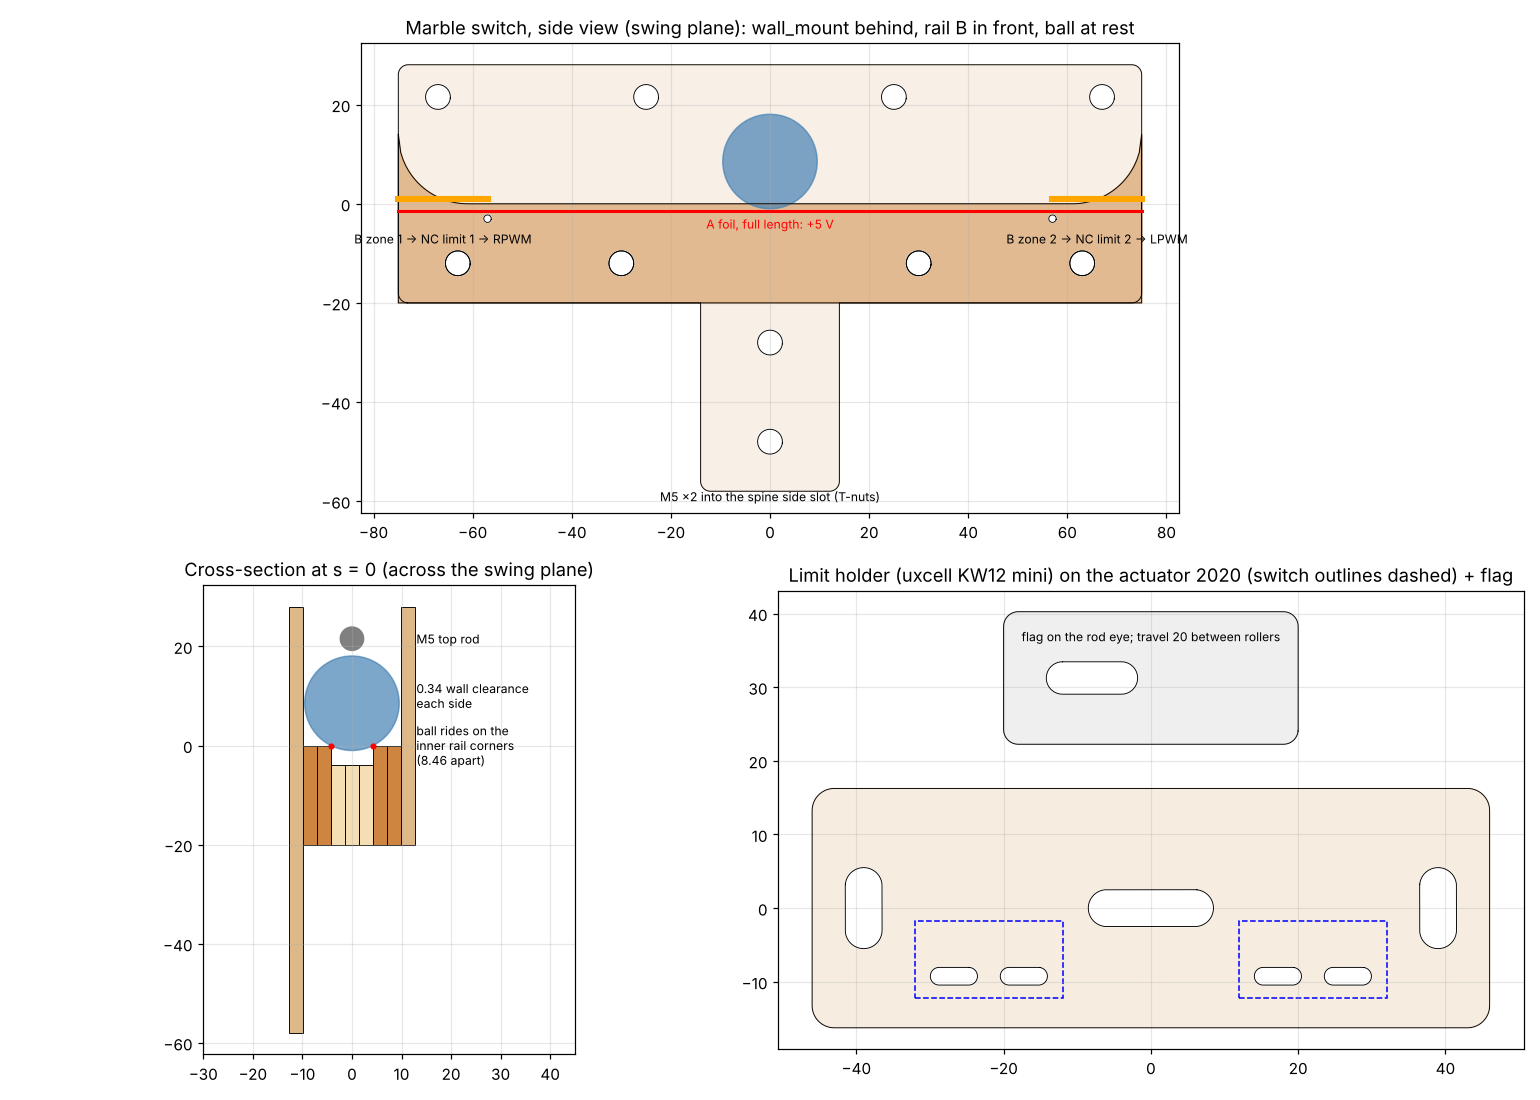
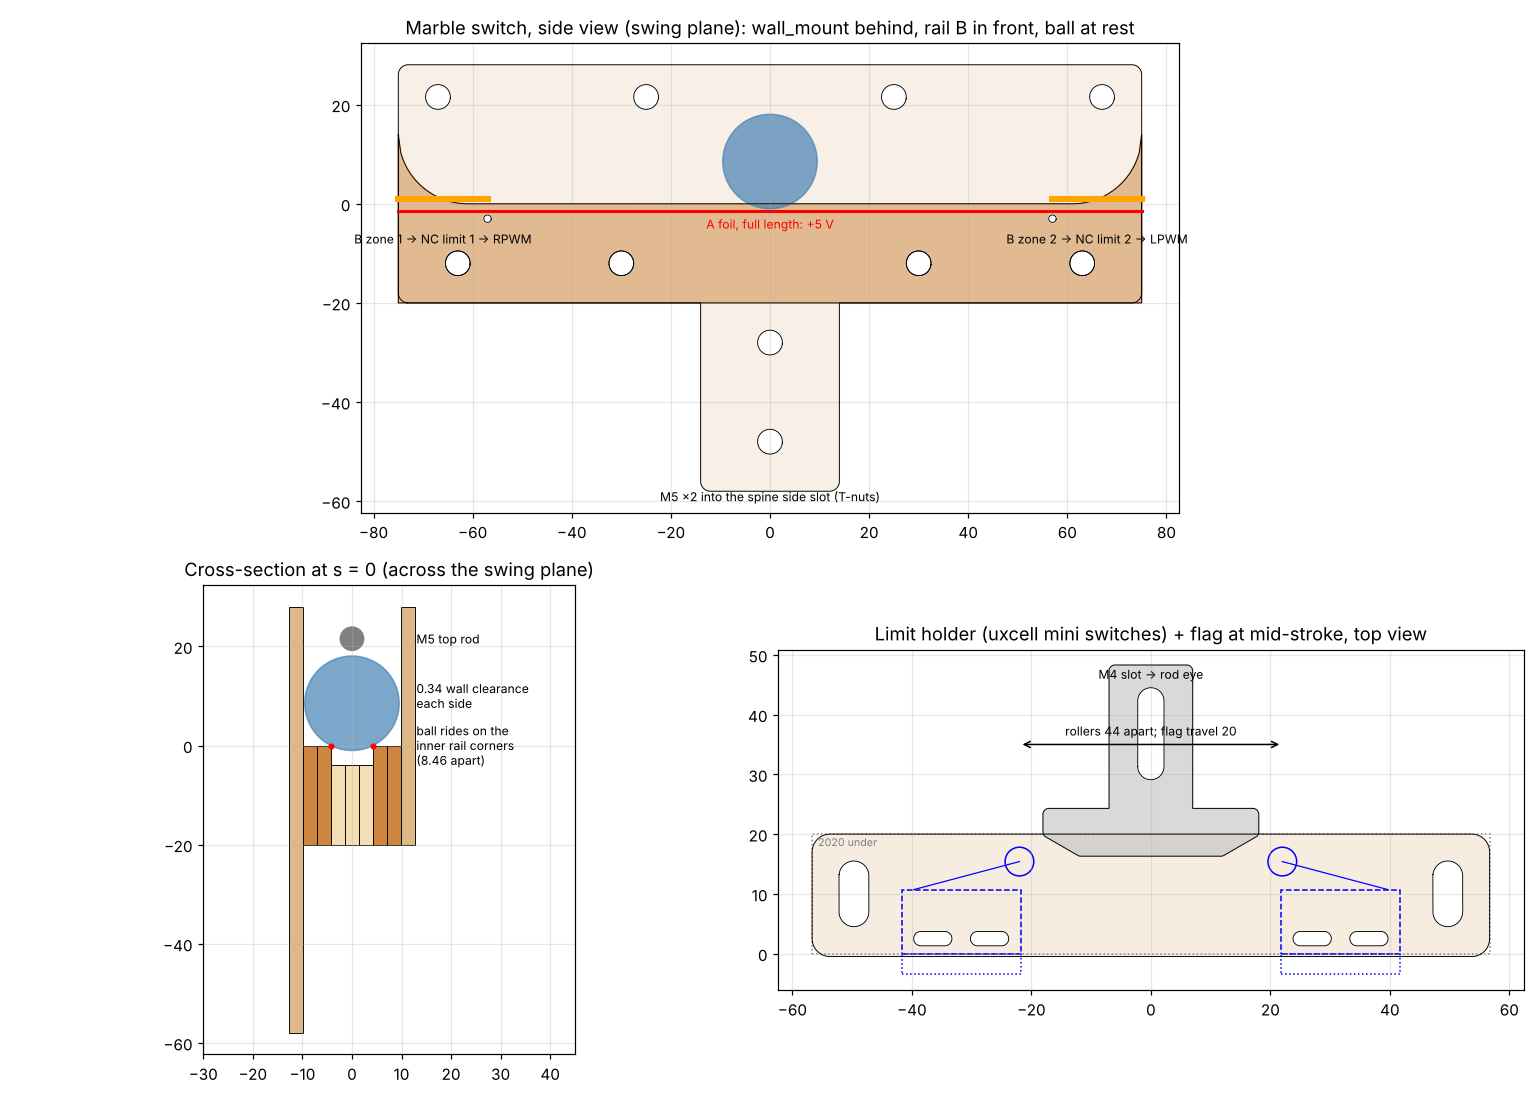
Limit holder + flag rebuilt from the uxcell switch drawing
Rollers face each other at the trip points; ramped flag at roller height with an
M4 slot to set the press depth.

Claude-Session: https://claude.ai/code/session_01LQy87QnU21cWEAk5CN6jGY

Changed region(s): [[0.4987, 0.4945, 0.9974, 0.9582], [0.4675, 0.68, 0.4987, 0.7109]]

diff --git a/marbles/clock/pendulum_switch.py b/marbles/clock/pendulum_switch.py
@@ -15,9 +15,9 @@ side face, into its slot):
   - clamp: 4 M5 through every layer below the rails (spacer rings not needed: the layers are solid there)
 
 LIMIT HOLDER (lies on the actuator's 2020): two microswitch seats, one each end of the stroke, each with slotted
-screw holes (fine trip adjustment); the plate's M5 slots let it slide along the rail. Default switch (--switch kw12):
-the uxcell mini roller lever, KW12-3 size (~20 x 10.5, two 2.5 holes 9.5 apart, M2); --switch kw11 for the KW11-3Z. FLAG: clamps to the actuator rod's eye, trips
-the rollers.
+screw holes (fine trip adjustment); the plate's M5 slots let it slide along the rail. Switch: the
+uxcell mini roller lever (19.9 x 10.7 x 6.4, two 2.4 holes 9.5 apart, M2; roller over the body's end). FLAG: bolts to the actuator rod's eye, rides
+between the rollers and ramps onto one at each end of the stroke.
 
     python3 marbles/clock/pendulum_switch.py                 # mdf3: switch rail layers + limit holder + flag, and a drawing
     python3 marbles/clock/pendulum_switch.py --material ply3 --curve -400
@@ -42,15 +42,20 @@ STOP_H = 12.0          # ... to this height
 M5, MARK = 5.0, 1.5
 SPINE_BOLTS_Z = (-28.0, -48.0)   # mount holes (s = 0) into the spine's side slot, below the rail edge
 
-# roller lever microswitches: body length, width (base to body top), screw hole, hole pitch, hole height above base,
-# switch-screw slot length. kw12 = the uxcell "mini micro" pack (KW12-3 size, M2 screws; seller figures, measure);
-# kw11 = the larger KW11-3Z (M3).
-SWITCHES = {"kw12": (20.0, 10.5, 2.4, 9.5, 3.0, 4.0),
-            "kw11": (27.8, 15.8, 3.1, 22.2, 5.1, 6.0)}
-SW_KIND = "kw12"
-SW_L, SW_W, SW_HOLE, SW_PITCH, SW_HOLE_Y, SW_ADJ = SWITCHES[SW_KIND]
-STROKE = 20.0          # actuator stroke (IGDLA-4: assumed ~20; measure)
-ADJ = 6.0              # slot length for adjustment (both the switch screws and the rail M5)
+# uxcell mini roller-lever switch (G605 / KW12 size), from the seller's drawing. x along the body from its end
+# AWAY from the roller, y up from the body's base (the terminal edge). Two M2 holes, roller at the far end.
+SW_L, SW_H, SW_T = 19.9, 10.7, 6.4      # body length, height (base to top), thickness
+SW_HOLE_X = (5.2, 14.7)                 # screw holes (9.5 apart, centred on the body)
+SW_HOLE_Y = 2.5                         # hole centres above the base
+SW_HOLE = 2.4                           # M2 clearance (the switch's own holes are 2.4)
+PIN = 3.5                               # terminals stick out below the base
+ROLL_X = 5.2 + 14.5                     # roller centre: 14.5 from the first hole = over the body's far end
+ROLL_Y, ROLL_D = 15.4, 4.8              # roller centre height when free + diameter: SCALED OFF THE DRAWING (no dims)
+SW_ADJ = 4.0                            # screw slot length: trip point +-2
+STROKE = 20.0                           # actuator stroke (IGDLA-4: assumed ~20; measure)
+ADJ = 6.0                               # plate M5 slot length
+FLAG_FLAT = 24.0                        # flag's flat (roller-pressing) edge length
+PRESS = 1.5                             # how far the flag pushes a roller in (flag's M4 slot sets it)
 
 
 def profile(curve_r):
@@ -96,33 +101,45 @@ def rail_layer(curve_r, kind):
     return g.difference(unary_union(holes))
 
 
+def roller_x():
+    """roller centres at +-this: the flag's flat edge end reaches the roller centre at the end of the stroke"""
+    return FLAG_FLAT / 2 + STROKE / 2
+
+
 def limit_holder():
-    global SW_L, SW_W, SW_HOLE, SW_PITCH, SW_HOLE_Y, SW_ADJ
-    SW_L, SW_W, SW_HOLE, SW_PITCH, SW_HOLE_Y, SW_ADJ = SWITCHES[SW_KIND]
-    """(x along the rail, y across): two switch seats STROKE + SW_L apart, slotted; M5 slots for the 2020"""
-    m5_x = STROKE / 2 + SW_L + SW_ADJ + 5               # end M5 slots: clear of a switch slid fully outward
-    length = 2 * (m5_x + 7)
-    width = SW_W + 22
-    g = box(-length / 2, -width / 2, length / 2, width / 2).buffer(-3, join_style=2).buffer(3, 16)
+    """(x along the actuator, y across; y = 0 is the switches' base line, the 2020 under y 0..20 when the plate's
+    M5 slots sit on its centreline y = 10). Two switches mirrored, rollers facing each other at x = +-roller_x(),
+    levers toward +y; terminals overhang the -y edge for soldering. Screw slots along x: trip point +-SW_ADJ/2."""
+    rx = roller_x()
+    outer = rx + ROLL_X + SW_ADJ / 2                     # far end of a body slid fully outward (|x|)
+    m5_x = outer + 2 + M5 / 2 + 1.5                      # end M5 slots past the bodies (head clear: ~4.25 radius)
+    x1 = m5_x + 7
+    y0, y1 = -0.5, 20.0                                  # pins hang off y0; plate covers the 2020 top
+    g = box(-x1, y0, x1, y1).buffer(-3, join_style=2).buffer(3, 16)
+    # body spans |x| from rx - (SW_L - ROLL_X) (roller end) to rx - (SW_L - ROLL_X) + SW_L; holes measured from the
+    # FAR end, so |x|hole = far - hx
     cuts = []
     for sx in (-1, 1):
-        # switch body sits with its lever toward +y (the rod side); screw slots along x
-        cx = sx * (STROKE / 2 + SW_L / 2 + SW_ADJ / 2)
-        y = -width / 2 + 4 + SW_HOLE_Y
-        for hx in (cx - SW_PITCH / 2, cx + SW_PITCH / 2):
-            cuts.append(LineString([(hx - SW_ADJ / 2, y), (hx + SW_ADJ / 2, y)]).buffer(SW_HOLE / 2, 24))
-        # M5 slot into the 2020 (y = 0 is the slot line when the plate is centred on the extrusion)
+        far = rx - (SW_L - ROLL_X) + SW_L
+        for hx in SW_HOLE_X:
+            x = sx * (far - hx)
+            cuts.append(LineString([(x - SW_ADJ / 2, SW_HOLE_Y), (x + SW_ADJ / 2, SW_HOLE_Y)]).buffer(SW_HOLE / 2, 24))
     for mx in (-m5_x, m5_x):
-        cuts.append(LineString([(mx, -ADJ / 2), (mx, ADJ / 2)]).buffer(M5 / 2, 32))
-    cuts.append(LineString([(-ADJ, 0), (ADJ, 0)]).buffer(M5 / 2, 32))
-    return g.difference(unary_union(cuts)), length, width
+        cuts.append(LineString([(mx, 10 - ADJ / 2), (mx, 10 + ADJ / 2)]).buffer(M5 / 2, 32))
+    return g.difference(unary_union(cuts)), 2 * x1, y1 - y0
 
 
 def flag():
-    """trip flag: bolts through the actuator rod's eye (M4 clearance + a slot for reach), wide enough to hit both rollers"""
-    g = box(0, 0, 40, 18).buffer(-2, join_style=2).buffer(2, 16)
-    cuts = [LineString([(8, 9), (16, 9)]).buffer(2.2, 24)]
-    return g.difference(unary_union(cuts))
+    """trip flag, lying flat at the rollers' height: a bar whose -y edge presses the rollers (flat FLAG_FLAT long,
+    30 deg ramps at the ends so the rollers climb on), and an arm to the rod eye with an M4 slot along y (sets PRESS)."""
+    h = 8.0                                              # bar depth (y)
+    ramp = (PRESS + 2) / math.tan(math.radians(30))
+    bar = Polygon([(-FLAG_FLAT / 2, 0), (FLAG_FLAT / 2, 0), (FLAG_FLAT / 2 + ramp, PRESS + 2),
+                   (FLAG_FLAT / 2 + ramp, h), (-FLAG_FLAT / 2 - ramp, h), (-FLAG_FLAT / 2 - ramp, PRESS + 2)])
+    arm = box(-7, h - 1, 7, h + 24)
+    g = bar.union(arm).buffer(-1, join_style=2).buffer(1, 16)
+    slot = LineString([(0, h + 7), (0, h + 18)]).buffer(2.2, 24)
+    return g.difference(slot)
 
 
 def emit(name, g, mat, notes, out_dir, copies=1):
@@ -151,11 +168,10 @@ def main():
     ap = argparse.ArgumentParser(description=__doc__.split("\n")[0])
     ap.add_argument("--material", default="mdf3")
     ap.add_argument("--curve", type=float, default=0.0, help="rail curvature radius: 0 flat, >0 concave, <0 convex")
-    ap.add_argument("--switch", choices=sorted(SWITCHES), default=SW_KIND, help="limit switch: kw12 (uxcell mini) or kw11")
     ap.add_argument("--stroke", type=float, default=STROKE, help="actuator stroke, mm (measure yours)")
     ap.add_argument("-o", "--out", type=Path, default=HERE.parent / "gcode")
     a = ap.parse_args()
-    globals().update(SW_KIND=a.switch, STROKE=a.stroke)
+    globals().update(STROKE=a.stroke)
     T = gcode.fit(a.material)[0]
     if abs(T - 2.82) > 0.3:
         print(f"note: layer counts assume ~2.82 sheet; {a.material} is {T}: check the ball clearances")
@@ -168,9 +184,10 @@ def main():
              [f"marble switch layer '{kind}', rail profile {tag}; stack: wall_mount | rail_a x2 | spacer x3 | rail_b x2 | wall"],
              a.out, n)
     lh, L, W = limit_holder()
-    emit(f"limit_holder_{SW_KIND}_s{STROKE:g}", lh, a.material,
-         [f"two {SW_KIND} roller-switch seats for a {STROKE:g} mm stroke, slotted +-{SW_ADJ / 2:g}; M5 slots to the 2020"], a.out)
-    emit("limit_flag", flag(), a.material, ["trip flag: M4 through the actuator rod's eye"], a.out, 2)
+    emit(f"limit_holder_s{STROKE:g}", lh, a.material,
+         [f"two uxcell mini roller switches, rollers facing, {2 * roller_x():g} apart, for a {STROKE:g} mm stroke; "
+          f"M2 slots +-{SW_ADJ / 2:g}; M5 slots to the 2020"], a.out)
+    emit("limit_flag", flag(), a.material, [f"trip flag: flat {FLAG_FLAT:g}, 30 deg ramps; M4 slot to the rod eye"], a.out, 2)
 
 
 if __name__ == "__main__":
